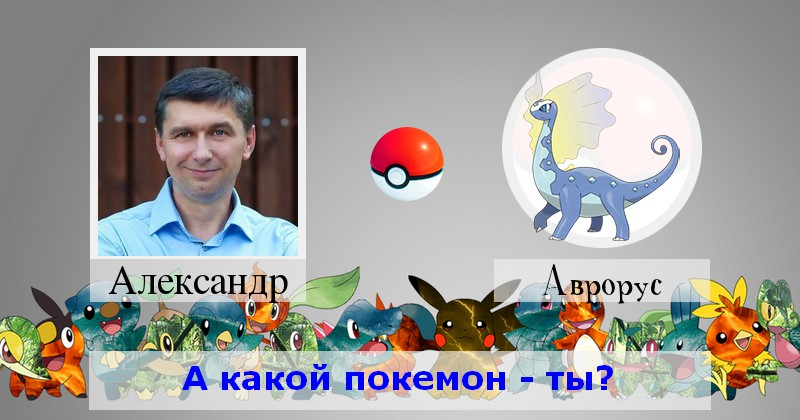
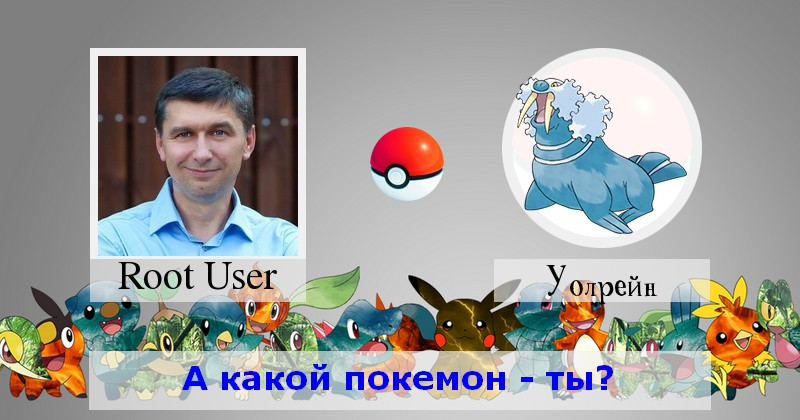
Fix bugs

Changed region(s): [[0.625, 0.1548, 0.875, 0.5881], [0.125, 0.619, 0.375, 0.7119], [0.6562, 0.619, 0.8438, 0.7429]]

diff --git a/app/Profile/Outcome.preHTML.php b/app/Profile/Outcome.preHTML.php
@@ -53,15 +53,17 @@ if (!@USER::$u['idnative']) {
 
             if (!UsermonProfile::$currentProfile->userProfileImageExists() || isset(ARGV::$a[1])) {
                 // profile image doesn't exist or pokename provided
+                $pokemon=false;
 
                 if (isset(ARGV::$a[1])) {
                     $pokemon = Pokemon::loadPokemon(ARGV::$a[1]);
+                    // logMessage('OUTCOME','url pokemon = '.varExport($pokemon));
                 }
 
-                UsermonProfile::$currentProfile->currentPokemon = ($pokemon)
+                UsermonProfile::$currentProfile->currentPokemon = ($pokemon
                     ? $pokemon
-                    : $candidatePokemon;
-                // logMessage('Profile',varExport($pokeMain));
+                    : $candidatePokemon);
+                // logMessage('OUTCOME','Assigned pokemon = '.varExport(UsermonProfile::$currentProfile->currentPokemon));
                 // create image based on tpl
                 UsermonProfile::$currentProfile->createProfileImg();
                 // logMessage('Profile',varExport(UsermonProfile::$pokemonList));
@@ -70,7 +72,7 @@ if (!@USER::$u['idnative']) {
             UsermonProfile::$pokemonList = $pokelist;
             // redirect
             if (isset(ARGV::$a[1]))
-                redirectLocal(MODULE::$currTreeProps['uri'].'/'.USER::getUrlId());
+               redirectLocal(MODULE::$currTreeProps['uri'].'/'.USER::getUrlId());
         }
     }
 }

diff --git a/app/class.Pokemon.php b/app/class.Pokemon.php
@@ -132,7 +132,7 @@ class Pokemon {
         include_once('app/dbSpec/db.tables.php');
         $tb = new dbTable($DBH,'pokename',$DBT['pokename']);
         $clauses = [
-            'WHERE' => (is_numeric($p)
+            'WHERE' => (!is_numeric($p)
                 ? 'pokename=\''.$p.'\''
                 : 'pokeid='.$p),
         ];
@@ -153,7 +153,7 @@ class Pokemon {
                 } else {
                     logMessage('POKEMON',sqlError());
                 }
-                return $pokemon;
+                return new Pokemon($pokemon);
             } else {
                 logMessage('POKEMON','No pokemon for "'.$p.'"');
             }
